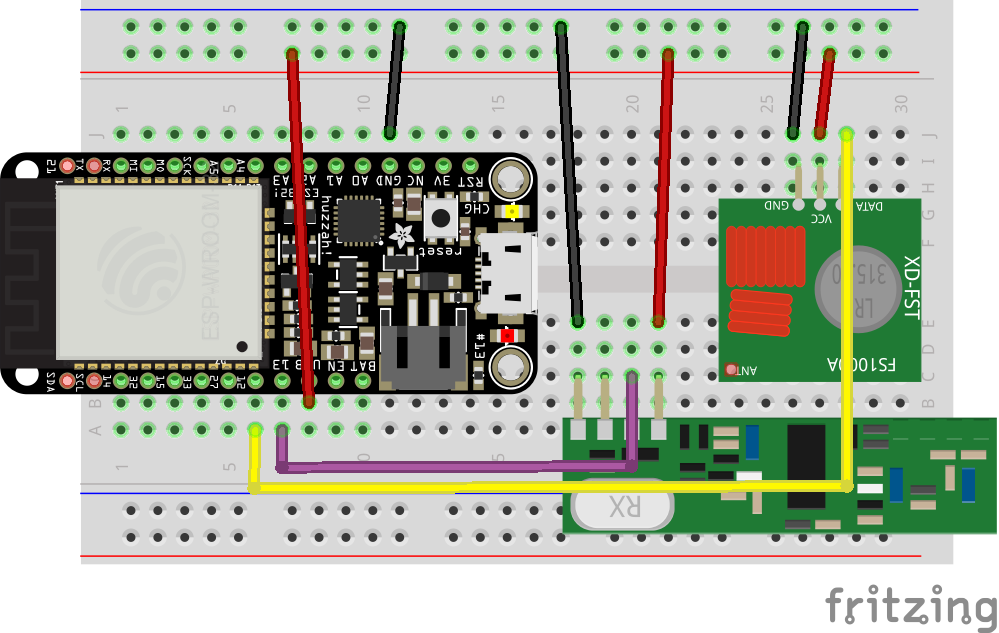
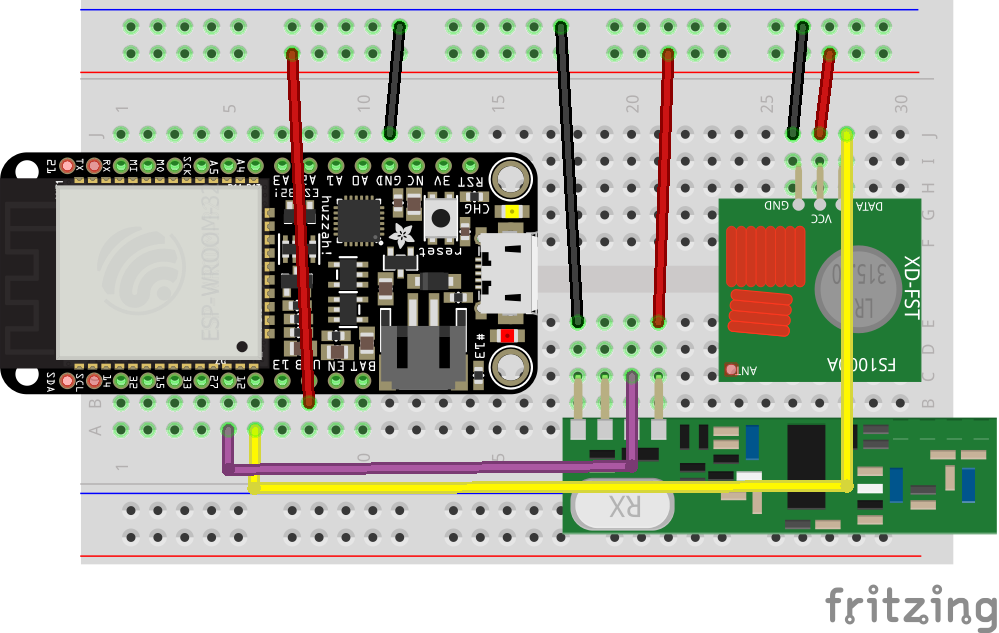
change default pin for rf receiver on ESP32
13 seems to don't work

Changed region(s): [[0.2172, 0.6603, 0.4965, 0.7504], [0.5586, 0.7204, 0.5896, 0.7504]]

diff --git a/config_RF.h b/config_RF.h
@@ -71,11 +71,11 @@ RF supported protocols
     #define RF_RECEIVER_PIN 0 // D3 on nodemcu
     #define RF_EMITTER_PIN 3 // RX on nodemcu if it doesn't work with 3, try with 4 (D2)
 #elif ESP32
-    #define RF_RECEIVER_PIN 13 // D13 on DOIT ESP32
+    #define RF_RECEIVER_PIN 27 // D27 on DOIT ESP32
     #define RF_EMITTER_PIN 12 // D12 on DOIT ESP32
 #elif __AVR_ATmega2560__
     #define RF_RECEIVER_PIN 1  //1 = D3 on mega
-    #define RF_EMITTER_PIN 4 
+    #define RF_EMITTER_PIN 4
 #else
     //IMPORTANT NOTE: On arduino UNO connect IR emitter pin to D9 , comment #define IR_USE_TIMER2 and uncomment #define IR_USE_TIMER1 on library <library>IRremote/boarddefs.h so as to free pin D3 for RF RECEIVER PIN
     //RF PIN definition
